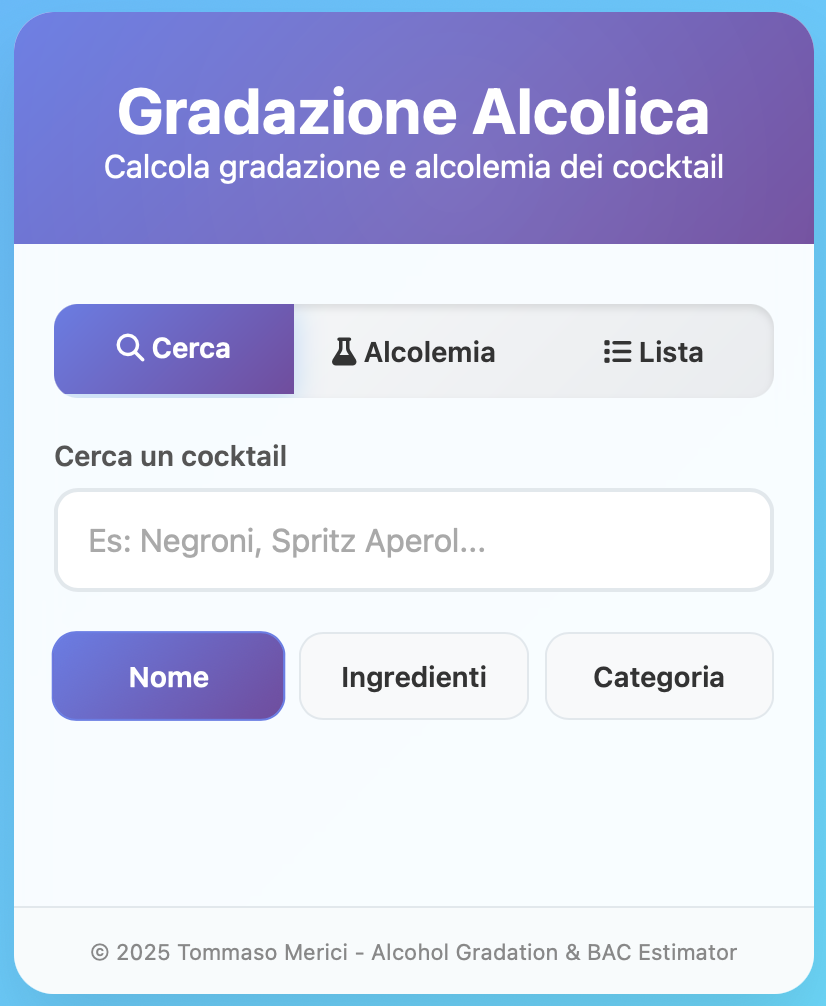
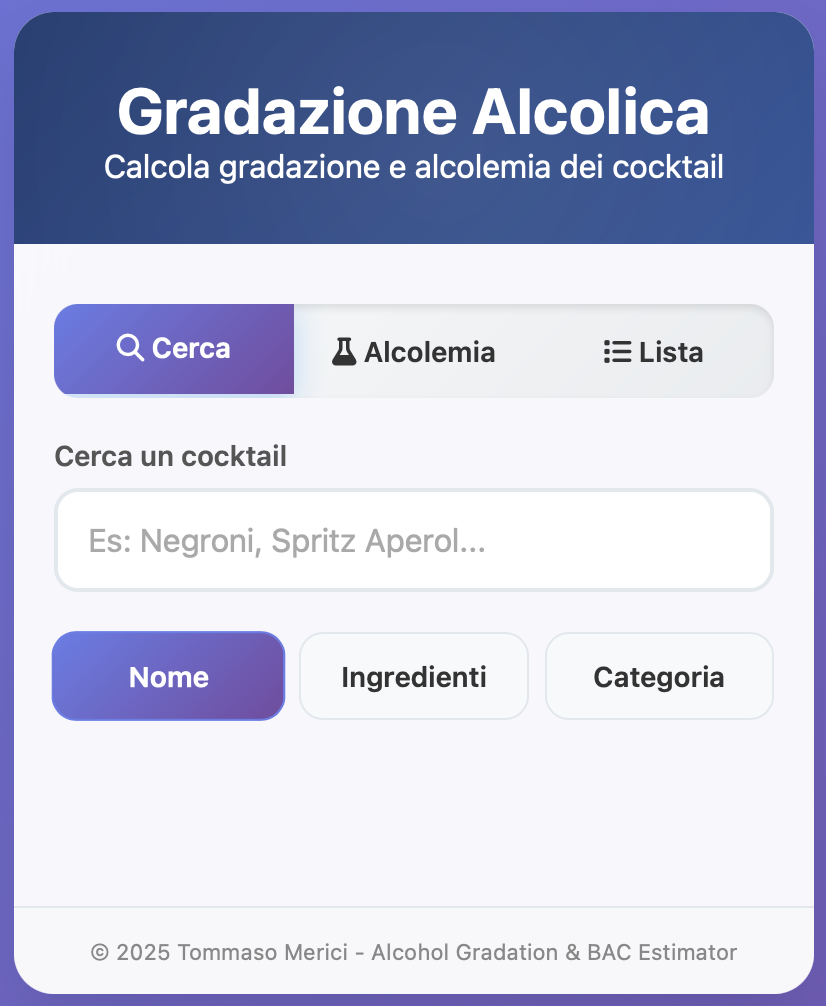
Cambiato colori alla versione 3.0

Changed region(s): [[0.0, 0.0, 1.0, 1.0]]

diff --git a/cocktail-app.html b/cocktail-app.html
@@ -25,7 +25,7 @@
 
         body {
             font-family: -apple-system, BlinkMacSystemFont, 'Segoe UI', Roboto, Oxygen, Ubuntu, Cantarell, sans-serif;
-            background: linear-gradient(135deg, #4facfe 0%, #00f2fe 100%);
+            background: linear-gradient(135deg, #667eea 0%, #764ba2 100%);
             min-height: 100vh;
             padding: 20px;
             color: #333;
@@ -56,7 +56,7 @@
         }
 
         .header {
-            background: linear-gradient(135deg, #667eea 0%, #764ba2 100%);
+            background: linear-gradient(135deg, #1e3c72 0%, #2a5298 100%);
             color: white;
             padding: 30px 20px;
             text-align: center;
@@ -142,7 +142,7 @@
         .btn {
             width: 100%;
             padding: 18px;
-            background: linear-gradient(135deg, #4facfe 0%, #00f2fe 100%);
+            background: linear-gradient(135deg, #667eea 0%, #764ba2 100%);
             color: white;
             border: none;
             border-radius: 12px;
@@ -165,13 +165,13 @@
         }
 
         .btn-secondary {
-            background: linear-gradient(135deg, #a8edea 0%, #fed6e3 100%);
-            color: #373748;
+            background: linear-gradient(135deg, #74b9ff 0%, #0984e3 100%);
+            color: white;
         }
 
         .btn-secondary:hover {
-            box-shadow: 0 8px 25px rgba(168, 237, 234, 0.4);
-            color: #222;
+            box-shadow: 0 8px 25px rgba(116, 185, 255, 0.4);
+            color: white;
         }
 
         .results {
@@ -353,13 +353,13 @@
             /* Touch feedback per tabs */
             .tab:active {
                 transform: scale(0.95);
-                background: rgba(79, 172, 254, 0.1);
+                background: linear-gradient(135deg, #74b9ff 0%, #0984e3 100%);
                 transition: all 0.1s ease;
             }
 
             .tab.active:active {
                 transform: scale(0.97);
-                box-shadow: 0 2px 10px rgba(79, 172, 254, 0.6);
+                box-shadow: 0 4px 15px rgba(116, 185, 255, 0.4);
             }
 
             /* Touch feedback per cocktail items */
@@ -778,7 +778,7 @@
                 </div>
 
                 <div class="form-group">
-                    <label>Minuti dal primo drink</label>
+                    <label>Minuti passati dal primo drink</label>
                     <input type="number" id="minutiPrimo" placeholder="Es: 180 per 3 ore fa" min="0">
                     <div class="fitness-info">Durante la bevuta, il BAC aumenta; dopo, diminuisce.</div>
                 </div>
